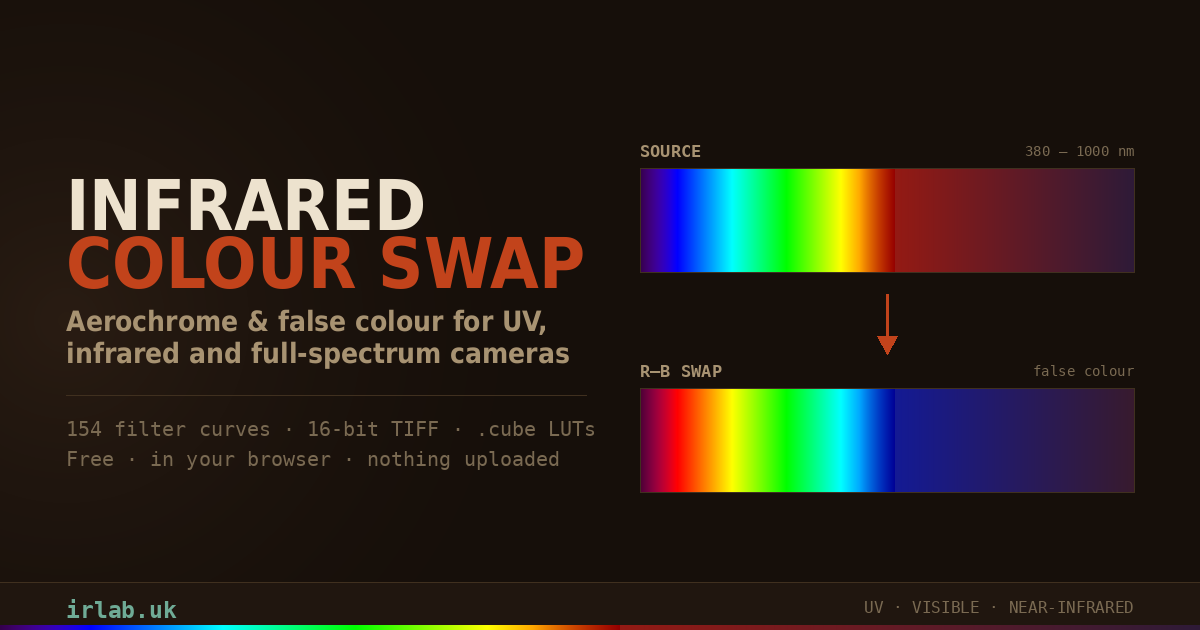
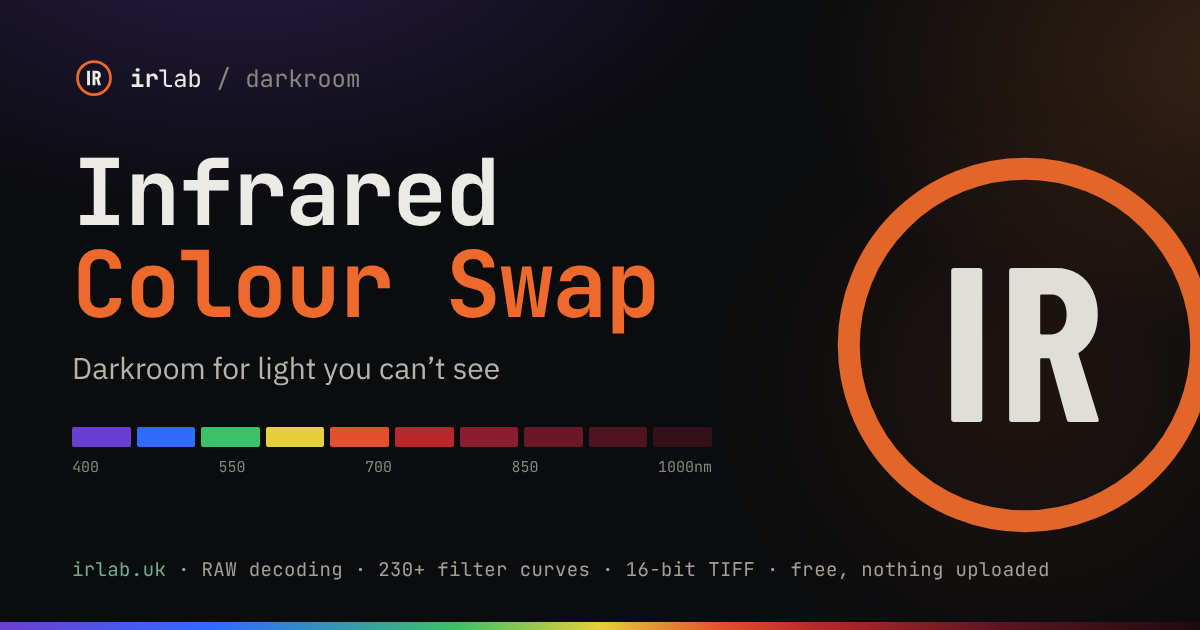
Build 112: new link preview card in the new style; preview text updated
Claude-Session: https://claude.ai/code/session_01LHGyJXuRmLXnra2YuZdGre

diff --git a/index.html b/index.html
@@ -9,23 +9,23 @@
 <meta property="og:type" content="website">
 <meta property="og:site_name" content="IR Lab">
 <meta property="og:title" content="Infrared Colour Swap — Aerochrome &amp; False Colour Tool">
-<meta property="og:description" content="Free browser tool for full-spectrum, UV and infrared photography. Channel swap, Aerochrome looks, 154 sourced filter curves, 16-bit TIFF and .cube LUT export. Nothing uploaded.">
+<meta property="og:description" content="Free browser tool for full-spectrum, UV and infrared photography. RAW decoding, channel swap, Aerochrome looks, 230+ filter curves, 16-bit TIFF and .cube LUT export. Nothing uploaded.">
 <meta property="og:url" content="https://irlab.uk/">
 <!-- Width and height are declared so Facebook and Messenger lay the large card
      out on first sight, rather than showing a small one until their crawler has
      fetched and measured the file. og:image must be an absolute URL. -->
-<meta property="og:image" content="https://irlab.uk/og-card.png">
+<meta property="og:image" content="https://irlab.uk/og-card.png?v=112">
 <meta property="og:image:type" content="image/png">
 <meta property="og:image:width" content="1200">
 <meta property="og:image:height" content="630">
-<meta property="og:image:alt" content="Infrared Colour Swap — a spectrum from 380 to 1000nm shown before and after a red-blue channel swap.">
+<meta property="og:image:alt" content="irlab: Infrared Colour Swap, a darkroom for light you can’t see. The IR logo beside a spectrum bar from 400 to 1000nm.">
 <meta name="twitter:card" content="summary_large_image">
 <meta name="twitter:title" content="Infrared Colour Swap — Aerochrome &amp; False Colour Tool">
-<meta name="twitter:description" content="Free browser tool for full-spectrum, UV and infrared photography. Channel swap, Aerochrome looks, 154 sourced filter curves.">
-<meta name="twitter:image" content="https://irlab.uk/og-card.png">
+<meta name="twitter:description" content="Free browser tool for full-spectrum, UV and infrared photography. RAW decoding, channel swap, Aerochrome looks, 230+ filter curves.">
+<meta name="twitter:image" content="https://irlab.uk/og-card.png?v=112">
 <link rel="canonical" href="https://irlab.uk/">
 <meta name="theme-color" content="#160f0a">
-<meta name="irlab-build" content="111">
+<meta name="irlab-build" content="112">
 <link rel="manifest" href="/manifest.json">
 <link rel="icon" href="/favicon.ico" sizes="any">
 <link rel="icon" href="/favicon.svg" type="image/svg+xml">
@@ -2031,7 +2031,7 @@ details[data-step="detail"] .dGrp #rawNrBox{padding-bottom:6px;border-bottom:1px
       <path d="M20.317 4.37a19.79 19.79 0 0 0-4.885-1.515.074.074 0 0 0-.079.037c-.21.375-.444.864-.608 1.25a18.27 18.27 0 0 0-5.487 0 12.64 12.64 0 0 0-.617-1.25.077.077 0 0 0-.079-.037A19.736 19.736 0 0 0 3.677 4.37a.07.07 0 0 0-.032.027C.533 9.046-.32 13.58.099 18.057a.082.082 0 0 0 .031.057 19.9 19.9 0 0 0 5.993 3.03.078.078 0 0 0 .084-.028 14.09 14.09 0 0 0 1.226-1.994.076.076 0 0 0-.041-.106 13.107 13.107 0 0 1-1.872-.892.077.077 0 0 1-.008-.128 10.2 10.2 0 0 0 .372-.292.074.074 0 0 1 .077-.01c3.928 1.793 8.18 1.793 12.062 0a.074.074 0 0 1 .078.01c.12.098.246.198.373.292a.077.077 0 0 1-.006.127 12.299 12.299 0 0 1-1.873.892.077.077 0 0 0-.041.107c.36.698.772 1.362 1.225 1.993a.076.076 0 0 0 .084.028 19.839 19.839 0 0 0 6.002-3.03.077.077 0 0 0 .032-.054c.5-5.177-.838-9.674-3.549-13.66a.061.061 0 0 0-.031-.03zM8.02 15.33c-1.183 0-2.157-1.085-2.157-2.419 0-1.333.956-2.419 2.157-2.419 1.21 0 2.176 1.096 2.157 2.42 0 1.333-.956 2.418-2.157 2.418zm7.975 0c-1.183 0-2.157-1.085-2.157-2.419 0-1.333.955-2.419 2.157-2.419 1.21 0 2.176 1.096 2.157 2.42 0 1.333-.946 2.418-2.157 2.418z"/>
     </svg> Discord</span><span class="dcGo">Join →</span>
     </a>
-    <div id="buildStampHome">Version 2026-10-15 · build 111</div>
+    <div id="buildStampHome">Version 2026-10-15 · build 112</div>
   </footer>
 </div>
 
@@ -2893,7 +2893,7 @@ details[data-step="detail"] .dGrp #rawNrBox{padding-bottom:6px;border-bottom:1px
       <br><a href="#" id="consentReopen" style="color:var(--muted);text-decoration:underline">Cookie notice</a>
       <br><a href="LICENSE.md" target="_blank" rel="noopener" style="color:var(--muted);text-decoration:underline">Source: AGPL-3.0</a>
       <br><a href="THIRD_PARTY_NOTICES.md" target="_blank" rel="noopener" style="color:var(--muted);text-decoration:underline">Third-party notices (LibRaw, RawTherapee)</a>
-<br><span id="buildStamp" style="color:var(--muted)" title="Which version of the app this is. Tap the arrow to check for a newer one and update.">Version 2026-10-15 · build 111</span>
+<br><span id="buildStamp" style="color:var(--muted)" title="Which version of the app this is. Tap the arrow to check for a newer one and update.">Version 2026-10-15 · build 112</span>
       <br><button id="btnInstall" type="button">Install as an app</button>
       <span id="kbHint">Ctrl+Z undo &middot; Ctrl+Shift+Z redo &middot; [ ] cycle presets &middot; F full quality view &middot; Space hold to compare</span>
     </footer>
